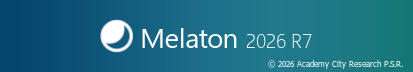
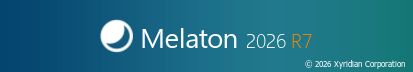
About Melaton is copyright Xyridian Corporation; "R7" in the Xyridian orange
- The About banner, About text and System page's version defaults name Xyridian Corporation
  where Vista names Microsoft (they named Academy City Research P.S.R.). The games' developer
  and the MCP server's publisher stay Academy City Research P.S.R.
- The About banner and the Welcome screen's branding strip draw the release "R7" in the
  Xyridian logo's star orange (#F88800); "2026" and "Melaton" stay white. Both build scripts
  place the release from the run's advance width, so it sits where it did.

Other sessions' uncommitted edits in these files go in whole.

Changed region(s): [[0.6392, 0.8333, 0.9879, 0.9444], [0.6973, 0.4722, 0.7554, 0.6667]]

diff --git a/scripts/test-cpl-system.js b/scripts/test-cpl-system.js
@@ -60,9 +60,9 @@ assert.strictEqual(t.deviceText({ hardwareConcurrency: 8, deviceMemory: 8 }), '8
 assert.strictEqual(t.deviceText({ hardwareConcurrency: 1, deviceMemory: 2 }), '1 logical processor, 2 GB of memory');
 
 // the edition from the shared version source (About Windows), the build when there is no service pack
-assert.deepStrictEqual(t.edition({ fullName: 'Melaton Desktop', edition: '2026 R7', copyright: 'Copyright © 2026 Academy City Research P.S.R.  All rights reserved.', servicePack: '', build: '7bbd242' }), {
+assert.deepStrictEqual(t.edition({ fullName: 'Melaton Desktop', edition: '2026 R7', copyright: 'Copyright © 2026 Xyridian Corporation.  All rights reserved.', servicePack: '', build: '7bbd242' }), {
     name: 'Melaton Desktop 2026 R7',
-    copyright: 'Copyright © 2026 Academy City Research P.S.R.  All rights reserved.',
+    copyright: 'Copyright © 2026 Xyridian Corporation.  All rights reserved.',
     servicePack: 'Build 7bbd242'
 });
 assert.strictEqual(t.edition({ servicePack: 'Service Pack 26Q4 abcd1234' }, null).servicePack, 'Service Pack 26Q4 abcd1234');

diff --git a/public/app.html b/public/app.html
@@ -8352,7 +8352,7 @@ Examples:
                 alt="" draggable="false">
             <div class="about-windows-text about-windows-product" id="aboutWindowsProduct">Dreamscape&reg; Melaton&reg;</div>
             <div class="about-windows-text about-windows-version" id="aboutMelatoninVersion">Version 2026 R7</div>
-            <div class="about-windows-text about-windows-copyright" id="aboutWindowsCopyright">Copyright &copy; 2026 Academy City Research P.S.R.  All rights reserved.</div>
+            <div class="about-windows-text about-windows-copyright" id="aboutWindowsCopyright">Copyright &copy; 2026 Xyridian Corporation.  All rights reserved.</div>
             <div class="about-windows-text about-windows-legal" id="aboutMelatoninDescription">The Melaton&trade; 2026 R7
                 operating system and its user interface are protected by trademark and other pending or existing
                 intellectual property rights in the United States and other countries.</div>

diff --git a/public/scripts/comp/modalUtils.js b/public/scripts/comp/modalUtils.js
@@ -11390,8 +11390,8 @@ const MELETON_VERSION_DEFAULTS = Object.freeze({
     version: '2026 R7',
     servicePack: '',
     copyrightYear: '2026',
-    copyrightHolder: 'Academy City Research P.S.R.',
-    copyright: 'Copyright \u00a9 2026 Academy City Research P.S.R.  All rights reserved.',
+    copyrightHolder: 'Xyridian Corporation',
+    copyright: 'Copyright \u00a9 2026 Xyridian Corporation.  All rights reserved.',
     organization: 'Dreamscape'
 });
 

diff --git a/public/css/cpl-system.css b/public/css/cpl-system.css
@@ -21,7 +21,7 @@
     margin: 0;
 }
 
-/* Vista's two spaces after a sentence ("P.S.R.  All rights reserved.") */
+/* Vista's two spaces after a sentence ("Corporation.  All rights reserved.") */
 #melatonControlPanelModal .cpl-sys-line {
     white-space: pre-wrap;
 }
